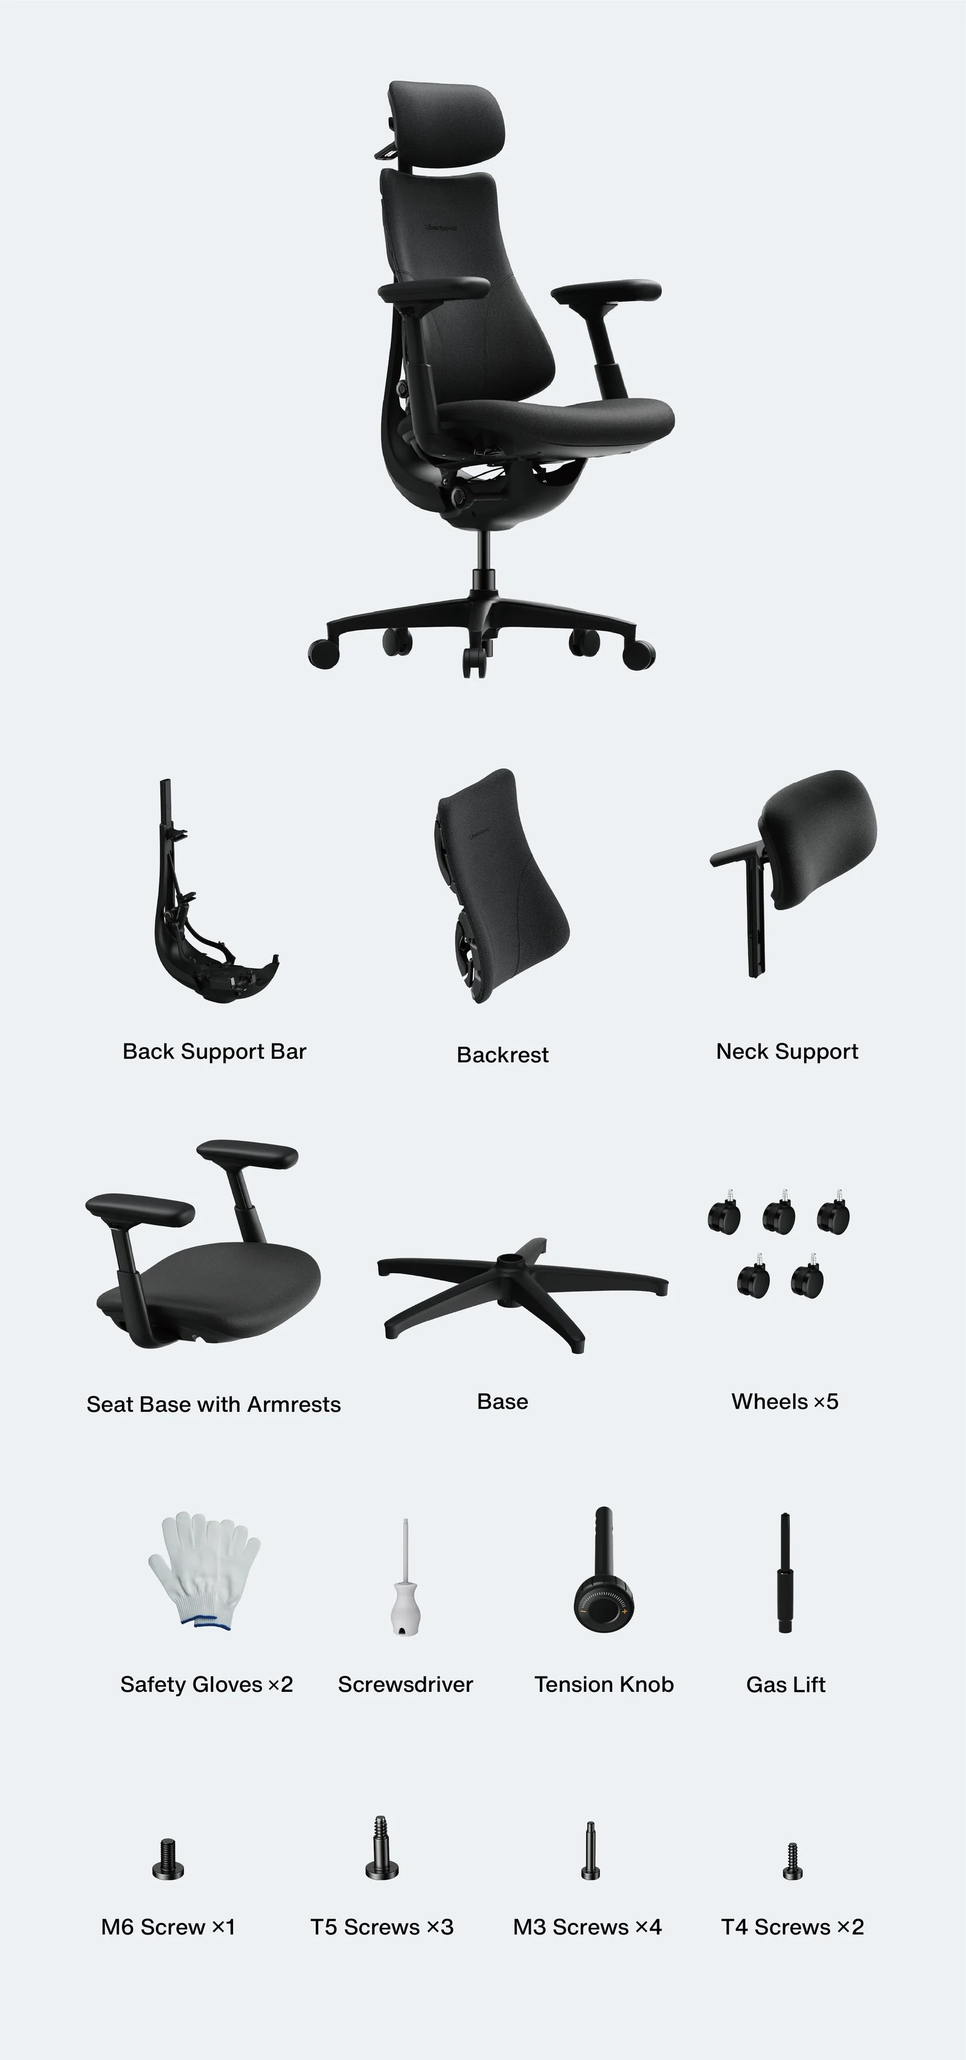
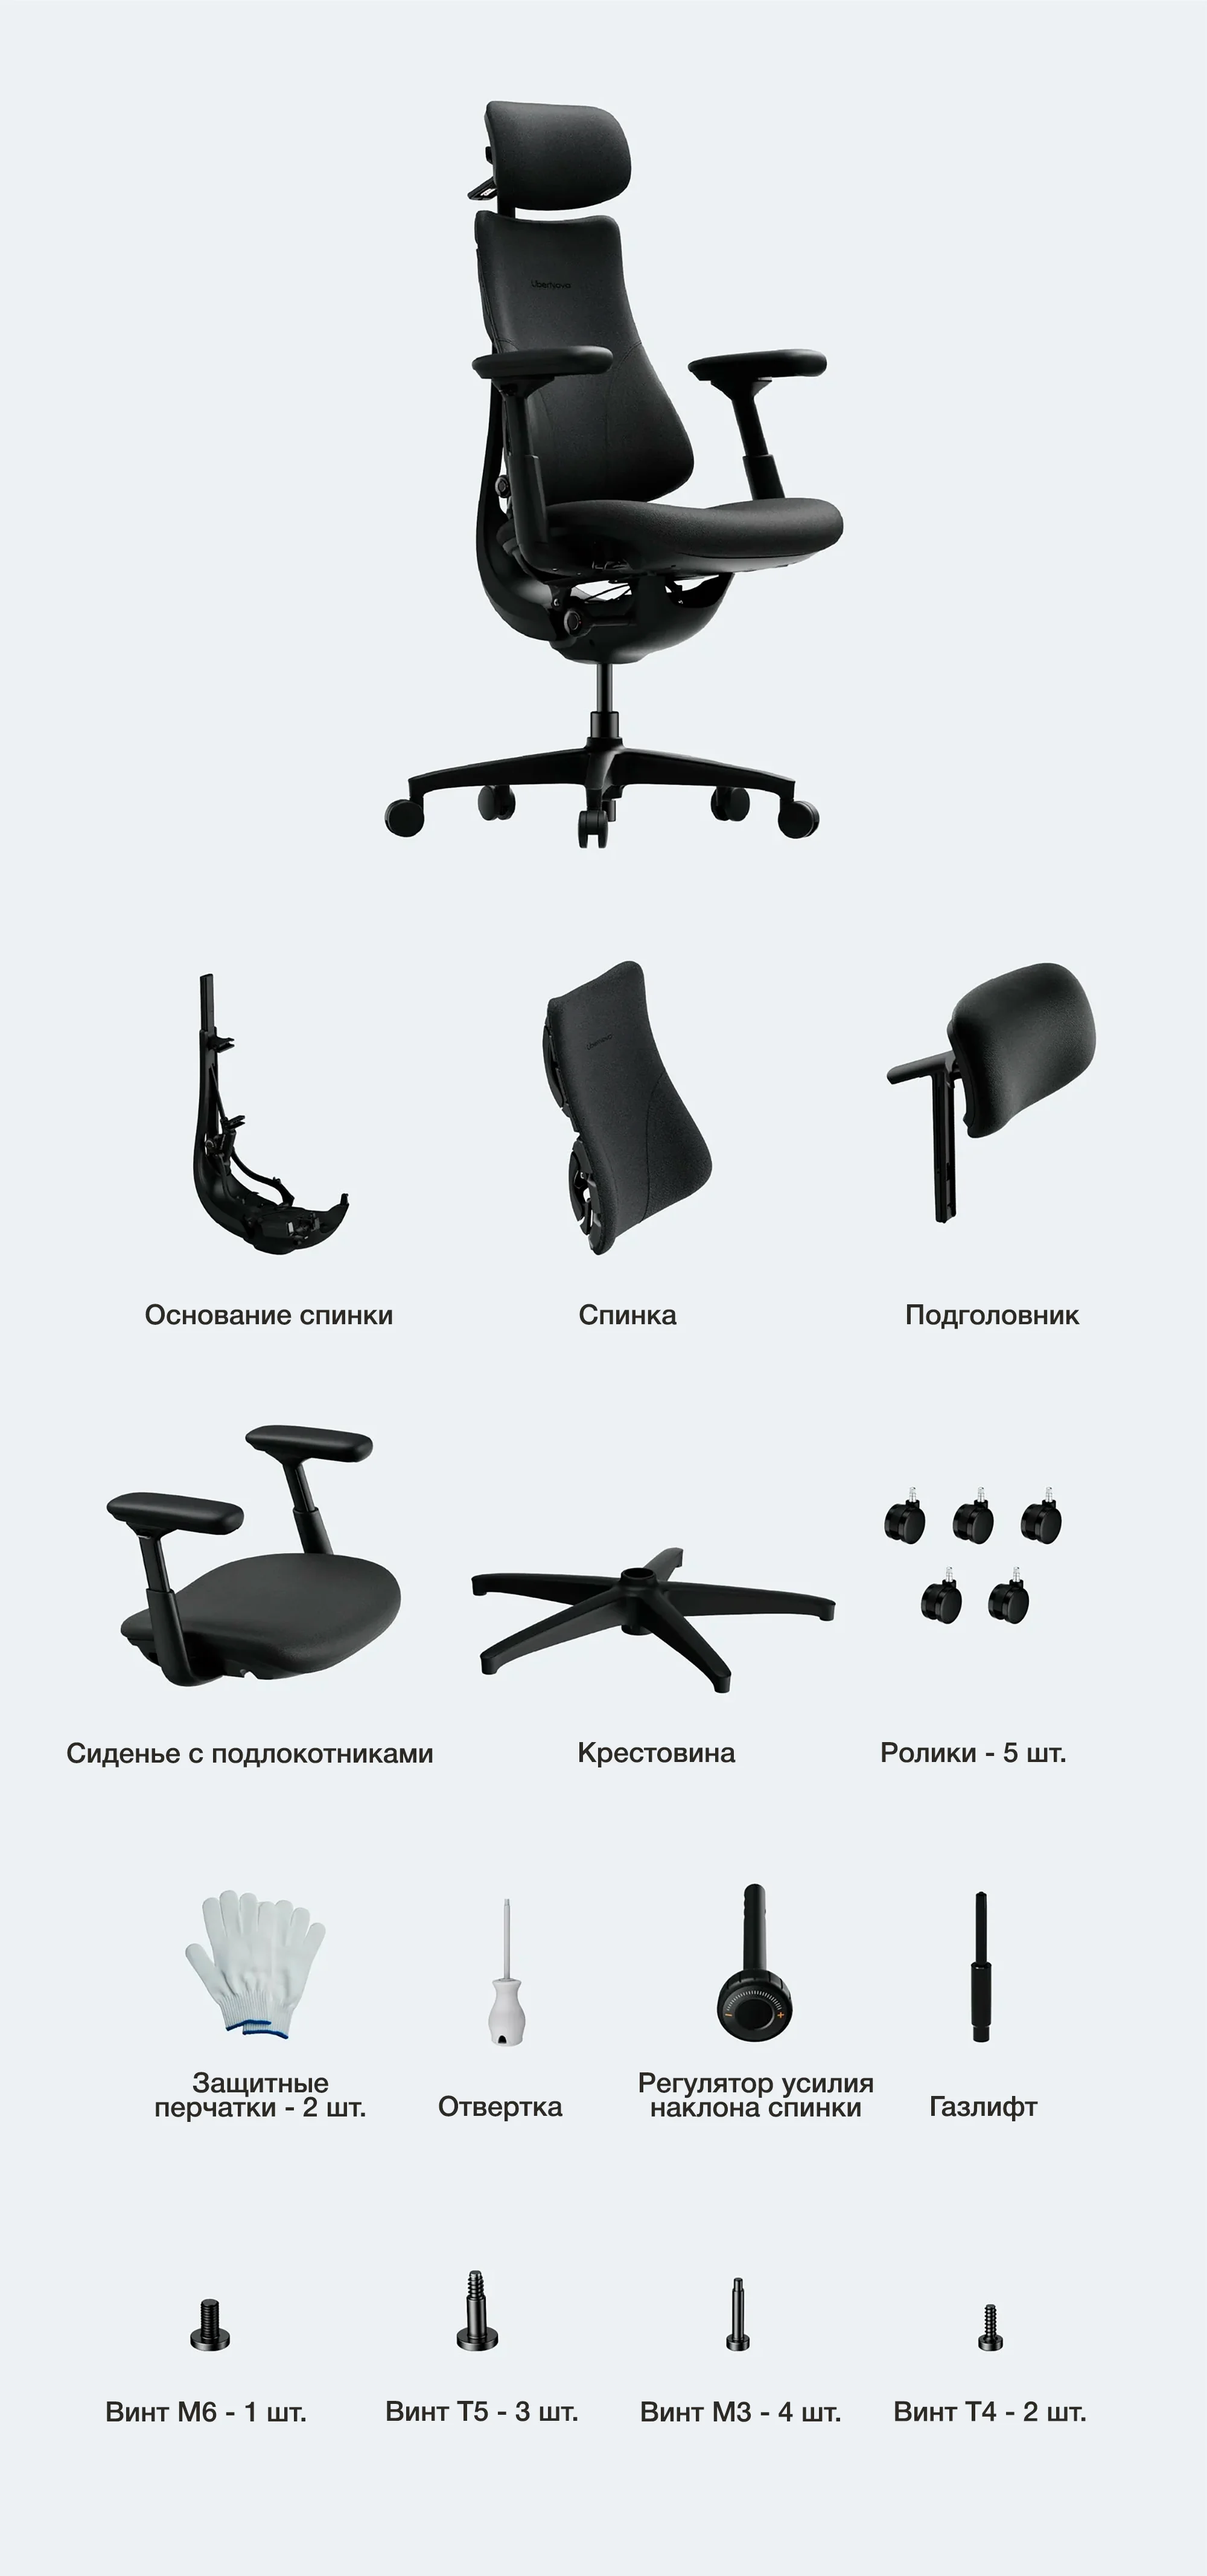
feat: page omni-se images translation done

diff --git a/pages/omni-se/index.html b/pages/omni-se/index.html
@@ -448,8 +448,8 @@
                 <section>
                     <div class="block-image">
                         <picture>
-                            <source srcset="images/product/overview-2/01.png" media="(min-width: 1024px)">
-                            <source srcset="images/product/overview-2/01_1024.png" media="(min-width: 769px)">
+                            <source srcset="images/product/overview-2/01.webp" media="(min-width: 1024px)">
+                            <source srcset="images/product/overview-2/01_1024.webp" media="(min-width: 769px)">
                             <source srcset="images/product/overview-2/01_768.webp" media="(max-width: 768px)">
                             <img class="block-image__image" src="images/product/overview-2/01.png"
                                 alt="Эргономичное офисное кресло">
